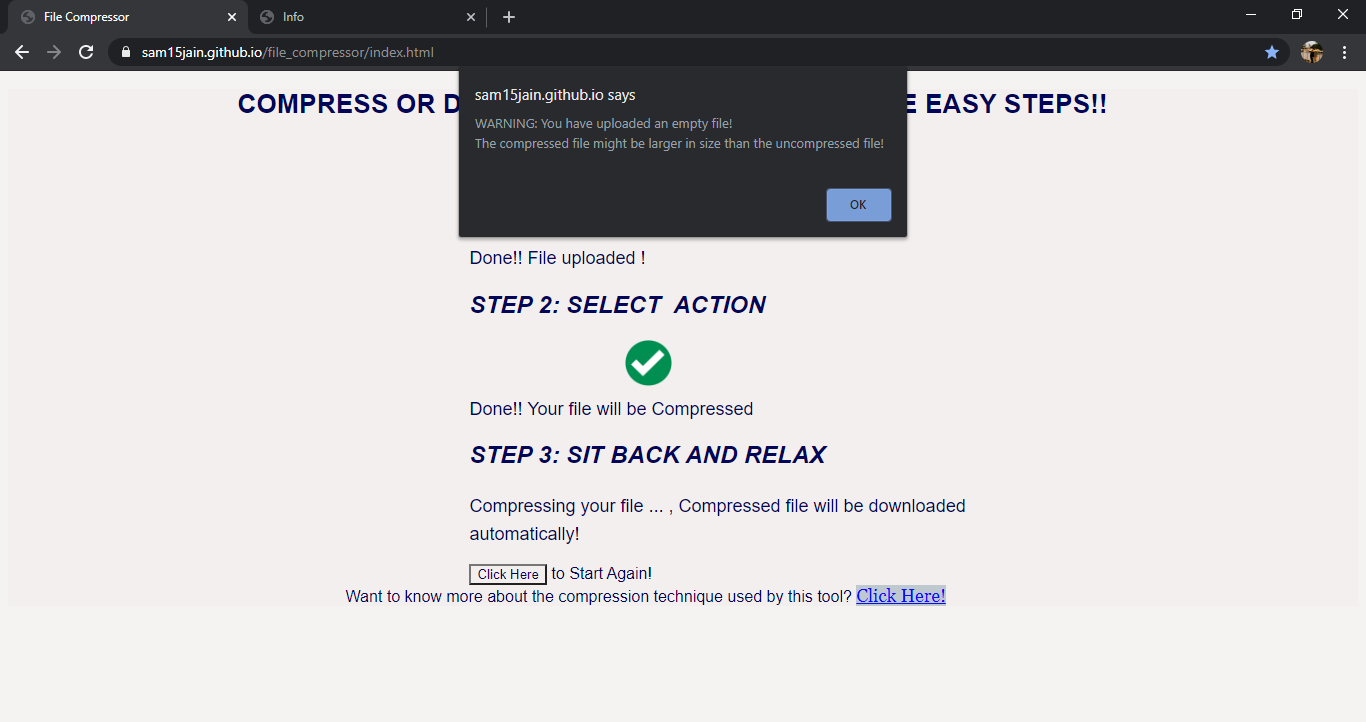
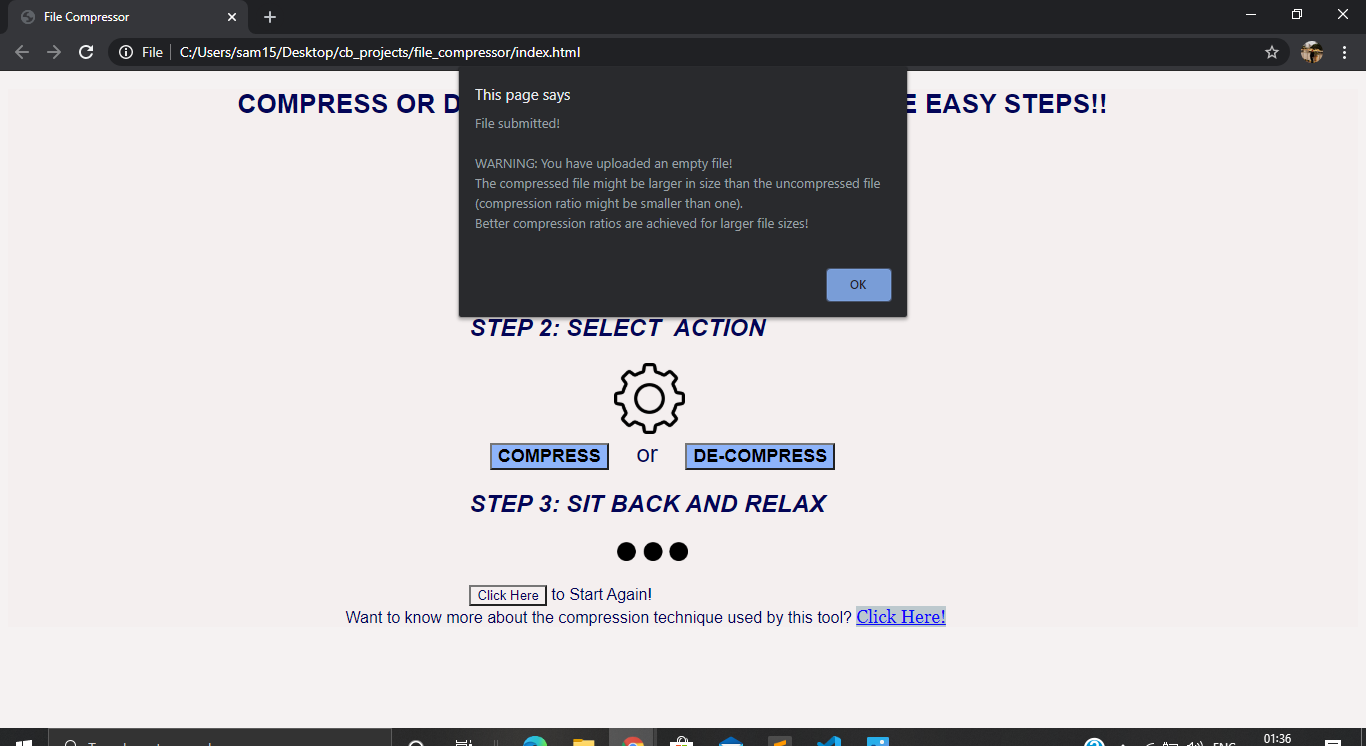
README added 2

diff --git a/script.js b/script.js
@@ -153,10 +153,11 @@ class Codec {
 		}
 		if (mp.size === 0) {
 			let final_string = "zer#";
-			alert("WARNING: You have uploaded an empty file!\nThe compressed file might be larger in size than the uncompressed file!");
+			
 			let output_message = "Compression complete and file sent for download. " + '\n' + "Compression Ratio : " + (data.length / final_string.length).toPrecision(6);
 			return [final_string, output_message];
 		}
+
 		if (mp.size === 1) {
 			let key, value;
 			for (let [k, v] of mp) {
@@ -331,8 +332,21 @@ window.onload = function () {
 			alert("Invalid file type (." + extension + ") \nPlease upload a valid .txt file and try again!");
 			return;
 		}
+		console.log(uploadedFile.size);
+		if(uploadedFile.size === 0){
+			alert("File submitted!\n\nWARNING: You have uploaded an empty file!\nThe compressed file might be larger in size than the uncompressed file (compression ratio might be smaller than one).\nBetter compression ratios are achieved for larger file sizes!");
+		}	
+		else if(uploadedFile.size <= 350){
+			alert("File submitted!\n\nWARNING: The uploaded file is very small in size (" + uploadedFile.size +" bytes) !\nThe compressed file might be larger in size than the uncompressed file (compression ratio might be smaller than one).\nBetter compression ratios are achieved for larger file sizes!");
+		}
+		else if(uploadedFile.size < 1000){
+			alert("File submitted!\n\nWARNING: The uploaded file is small in size (" + uploadedFile.size +" bytes) !\nThe compressed file's size might be larger than expected (compression ratio might be small).\nBetter compression ratios are achieved for larger file sizes!");
+		}	
+		else{
+			alert("File submitted!");
+		}
 		isSubmitted = true;
-		alert("File submitted");
+		
 		onclickChanges("Done!! File uploaded !", step1);
 	}
 	encodeBtn.onclick = function () {

diff --git a/README.md b/README.md
@@ -40,7 +40,7 @@
 
 * Additional Instructions and Warnings are provided if the above steps are not followed correctly
 
-![noFile](screenshots/noFiless.png)
+![smallFile](screenshots/vsmallFiless.png)
 
 ![emptyFile](screenshots/emptyFiless.png)
 
